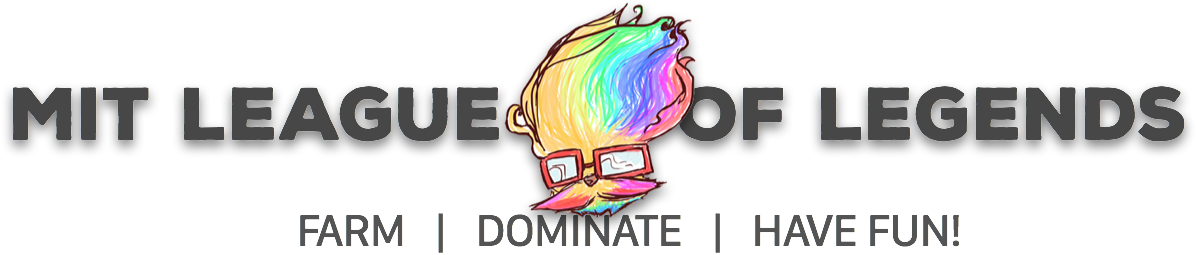
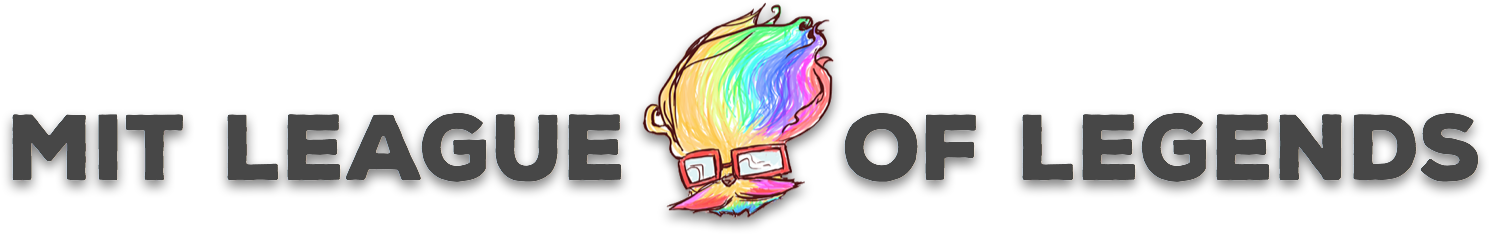
add themes and more content

diff --git a/static/css/navbar.css b/static/css/navbar.css
@@ -1,14 +1,95 @@
 #navbar{
 	width: calc(100% - 20px);
 	padding: 10px;
-	height: 70px;
+	flex-wrap: wrap;
 	padding-top: 5px;
 	display: flex;
 	justify-content: center;
-	background-color: #dcb84d;
+	background-color: #eac75e;
 }
 
 #navbar img{
-	max-height: 100%;
+	height: 50px;
 	max-width: 100%;
+}
+
+#navbar #tabs{
+	width: calc(100% - 20px);
+	padding: 10px;
+	display: flex;
+	flex-wrap: nowrap;
+	justify-content: center;
+	align-items: center;
+}
+
+#navbar .tab{
+	display: flex;
+	justify-content: center;
+	align-items: center;
+	margin-left: 10px;
+	margin-right: 10px;
+}
+
+#navbar .tab a{
+	padding: 5px;
+    background-color: #525252;
+    border-radius: 2px;
+    padding-left: 10px;
+    color: #f1f1f1;
+    padding-right: 10px;
+    border: solid 2px #525252;
+    transition: border-color 0.5s ease;
+    text-decoration: none;
+}
+
+#navbar #twitch{
+	color: white;
+	background-color: #61369F;
+	border: solid 2px #61369F;
+}
+
+#navbar .tab a:hover{
+	border-color: #eee;
+}
+
+/*
+CHANGE AT 500px
+*/
+
+#navbar #mobile{
+	display: none;
+	position: absolute;
+    left: 10px;
+    top: 10px;
+}
+
+@media screen and (max-width: 500px) {
+    #navbar #mobile{
+    	display: block;
+    }
+
+    #navbar #tabs{
+    	display: none;
+    	position: fixed;
+	    top: 65px;
+	    height: calc(100% - 65px);
+	    background-color: #212121;
+	    flex-direction: column;
+    	justify-content: flex-start;
+    }
+
+    #navbar .tab{
+    	width: 100%;
+    	margin-bottom: 10px;
+    }
+
+    #navbar .tab a{
+    	width: 100%;
+    }
+}
+
+@media screen and (min-width: 500px) {
+    #navbar #tabs{
+    	display: flex !important;
+    }
 }

diff --git a/templates/navbar.html b/templates/navbar.html
@@ -1,4 +1,30 @@
 <link rel="stylesheet" href="css/navbar.css">
 <div id="navbar" class="shadow">
 	<img src="img/banner.png">
+	<span id="mobile" onclick="toggleTabs()">
+		<i class="fa fa-bars" aria-hidden="true"></i>
+	</span>
+	<div id="tabs">
+		<div class="tab">
+			<a class="shadow" href="/">HOME</a>
+		</div>
+
+		<div class="tab">
+			<a class="shadow" href="/events">EVENTS</a>
+		</div>
+
+		<div class="tab">
+			<a class="shadow" href="/contact">CONTACT</a>
+		</div>
+
+		<div class="tab">
+			<a class="shadow" href="/people">PEOPLE</a>
+		</div>
+
+		<div class="tab">
+			<a class="shadow" id="twitch" href="http://twitch.tv/mitlolclub"><i class="fa fa-twitch" aria-hidden="true"></i> TWITCH</a>
+		</div>
+	</div>
 </div>
+
+<script src="js/navbar.js"></script>

diff --git a/static/css/base.css b/static/css/base.css
@@ -5,13 +5,21 @@ body, html{
 	position: absolute;
 	font-family: 'Roboto';
 }
+#background{
+	background-size: cover;
+	background-color: #212121;
+    background-image: url(http://news.cdn.leagueoflegends.com/public/images/are/img/ar-wallpaper.jpg);
+    background-position: center;
+    position: fixed;
+    z-index: 1;
+    width: 100%;
+    height: 100%;
+}
 #main{
 	position: relative;
 	width: 100%;
 	height: 100%;
-	background-size: cover;
-    background-image: url(http://news.cdn.leagueoflegends.com/public/images/are/img/ar-wallpaper.jpg);
-    background-position: center;
+	z-index: 2;
 }
 #content{
 
@@ -32,4 +40,5 @@ body, html{
 	max-width: calc(100% - 20px);
 	margin-top: 20px;
 	background-color: white;
+	border-radius: 2px;
 }

diff --git a/static/js/themes.js b/static/js/themes.js
@@ -1,0 +1,21 @@
+var themes = {
+	Azir: {
+		url: "http://news.cdn.leagueoflegends.com/public/images/are/img/ar-wallpaper.jpg",
+		color: "#eac75e"
+	},
+	SKT_T1: {
+		url: "http://i.imgur.com/LNvlDah.jpg",
+		color: "#418ec1"
+	},
+	Donger: {
+		url: "http://na.leagueoflegends.com/sites/default/files/styles/scale_xlarge/public/upload/hh-banner.jpg?itok=iGL42f-W",
+		color: "#dda949"
+	}
+}
+
+$("#themes span").click(function(){
+	theme = themes[$(this).attr("data-theme")];
+	$("#background").css("background-image","url("+ theme.url +")");
+	$("#navbar").css("background-color", theme.color);
+
+});

diff --git a/static/js/navbar.js b/static/js/navbar.js
@@ -1,0 +1,18 @@
+function toggleTabs(){
+	if($("#tabs").css("display") === "none"){
+		$("#tabs").css("left", "-100%");
+		$("#tabs").css("display","flex");
+		$("#tabs").velocity({
+			left: 0
+		});
+	}
+	else{
+		$("#tabs").velocity({
+			left: "-100%"
+		},{
+			complete: function(){
+				$("#tabs").css("display","none");
+			}
+		});
+	}
+}

diff --git a/templates/base.html b/templates/base.html
@@ -21,6 +21,7 @@
 		{% block header %}{% endblock %}
 	</head>
 	<body>
+		<div id="background"></div>
 		<div id="main">
 			<div id="center">
 			{% include 'navbar.html' %}
@@ -29,5 +30,7 @@
 			</div>
 			</div>
 		</div>
+		{% include 'themes.html' %}
+		<script src="js/index.js"></script>
 	</body>
 </html>

diff --git a/templates/themes.html b/templates/themes.html
@@ -1,0 +1,9 @@
+<link rel="stylesheet" href="css/themes.css">
+
+<div id="themes">
+	<span class="selected" data-theme="Azir">Azir</span>
+	<span data-theme="Donger">Heimerdinger</span>
+	<span data-theme="SKT_T1">SKT T1</span>
+</div>
+
+<script src="js/themes.js"></script>

diff --git a/static/css/themes.css b/static/css/themes.css
@@ -1,0 +1,17 @@
+#themes{
+	position: fixed;
+	bottom: 0;
+	left: 0;
+	width: calc(100% - 10px);
+	padding: 5px;
+	background-color: #212121;
+	display: flex;
+	flex-wrap: nowrap;
+	z-index: 3;
+}
+
+#themes span{
+	color: white;
+	font-size: 10px;
+	margin-right: 10px;
+}

diff --git a/static/css/index.css b/static/css/index.css
@@ -1,0 +1,13 @@
+#body{
+	color: #212121;
+}
+#body h1{
+	text-align: center;
+	font-size: 24px;
+	color: #655e5e;
+}
+
+#body h2{
+	font-weight: 500;
+    font-size: 18px;
+}
